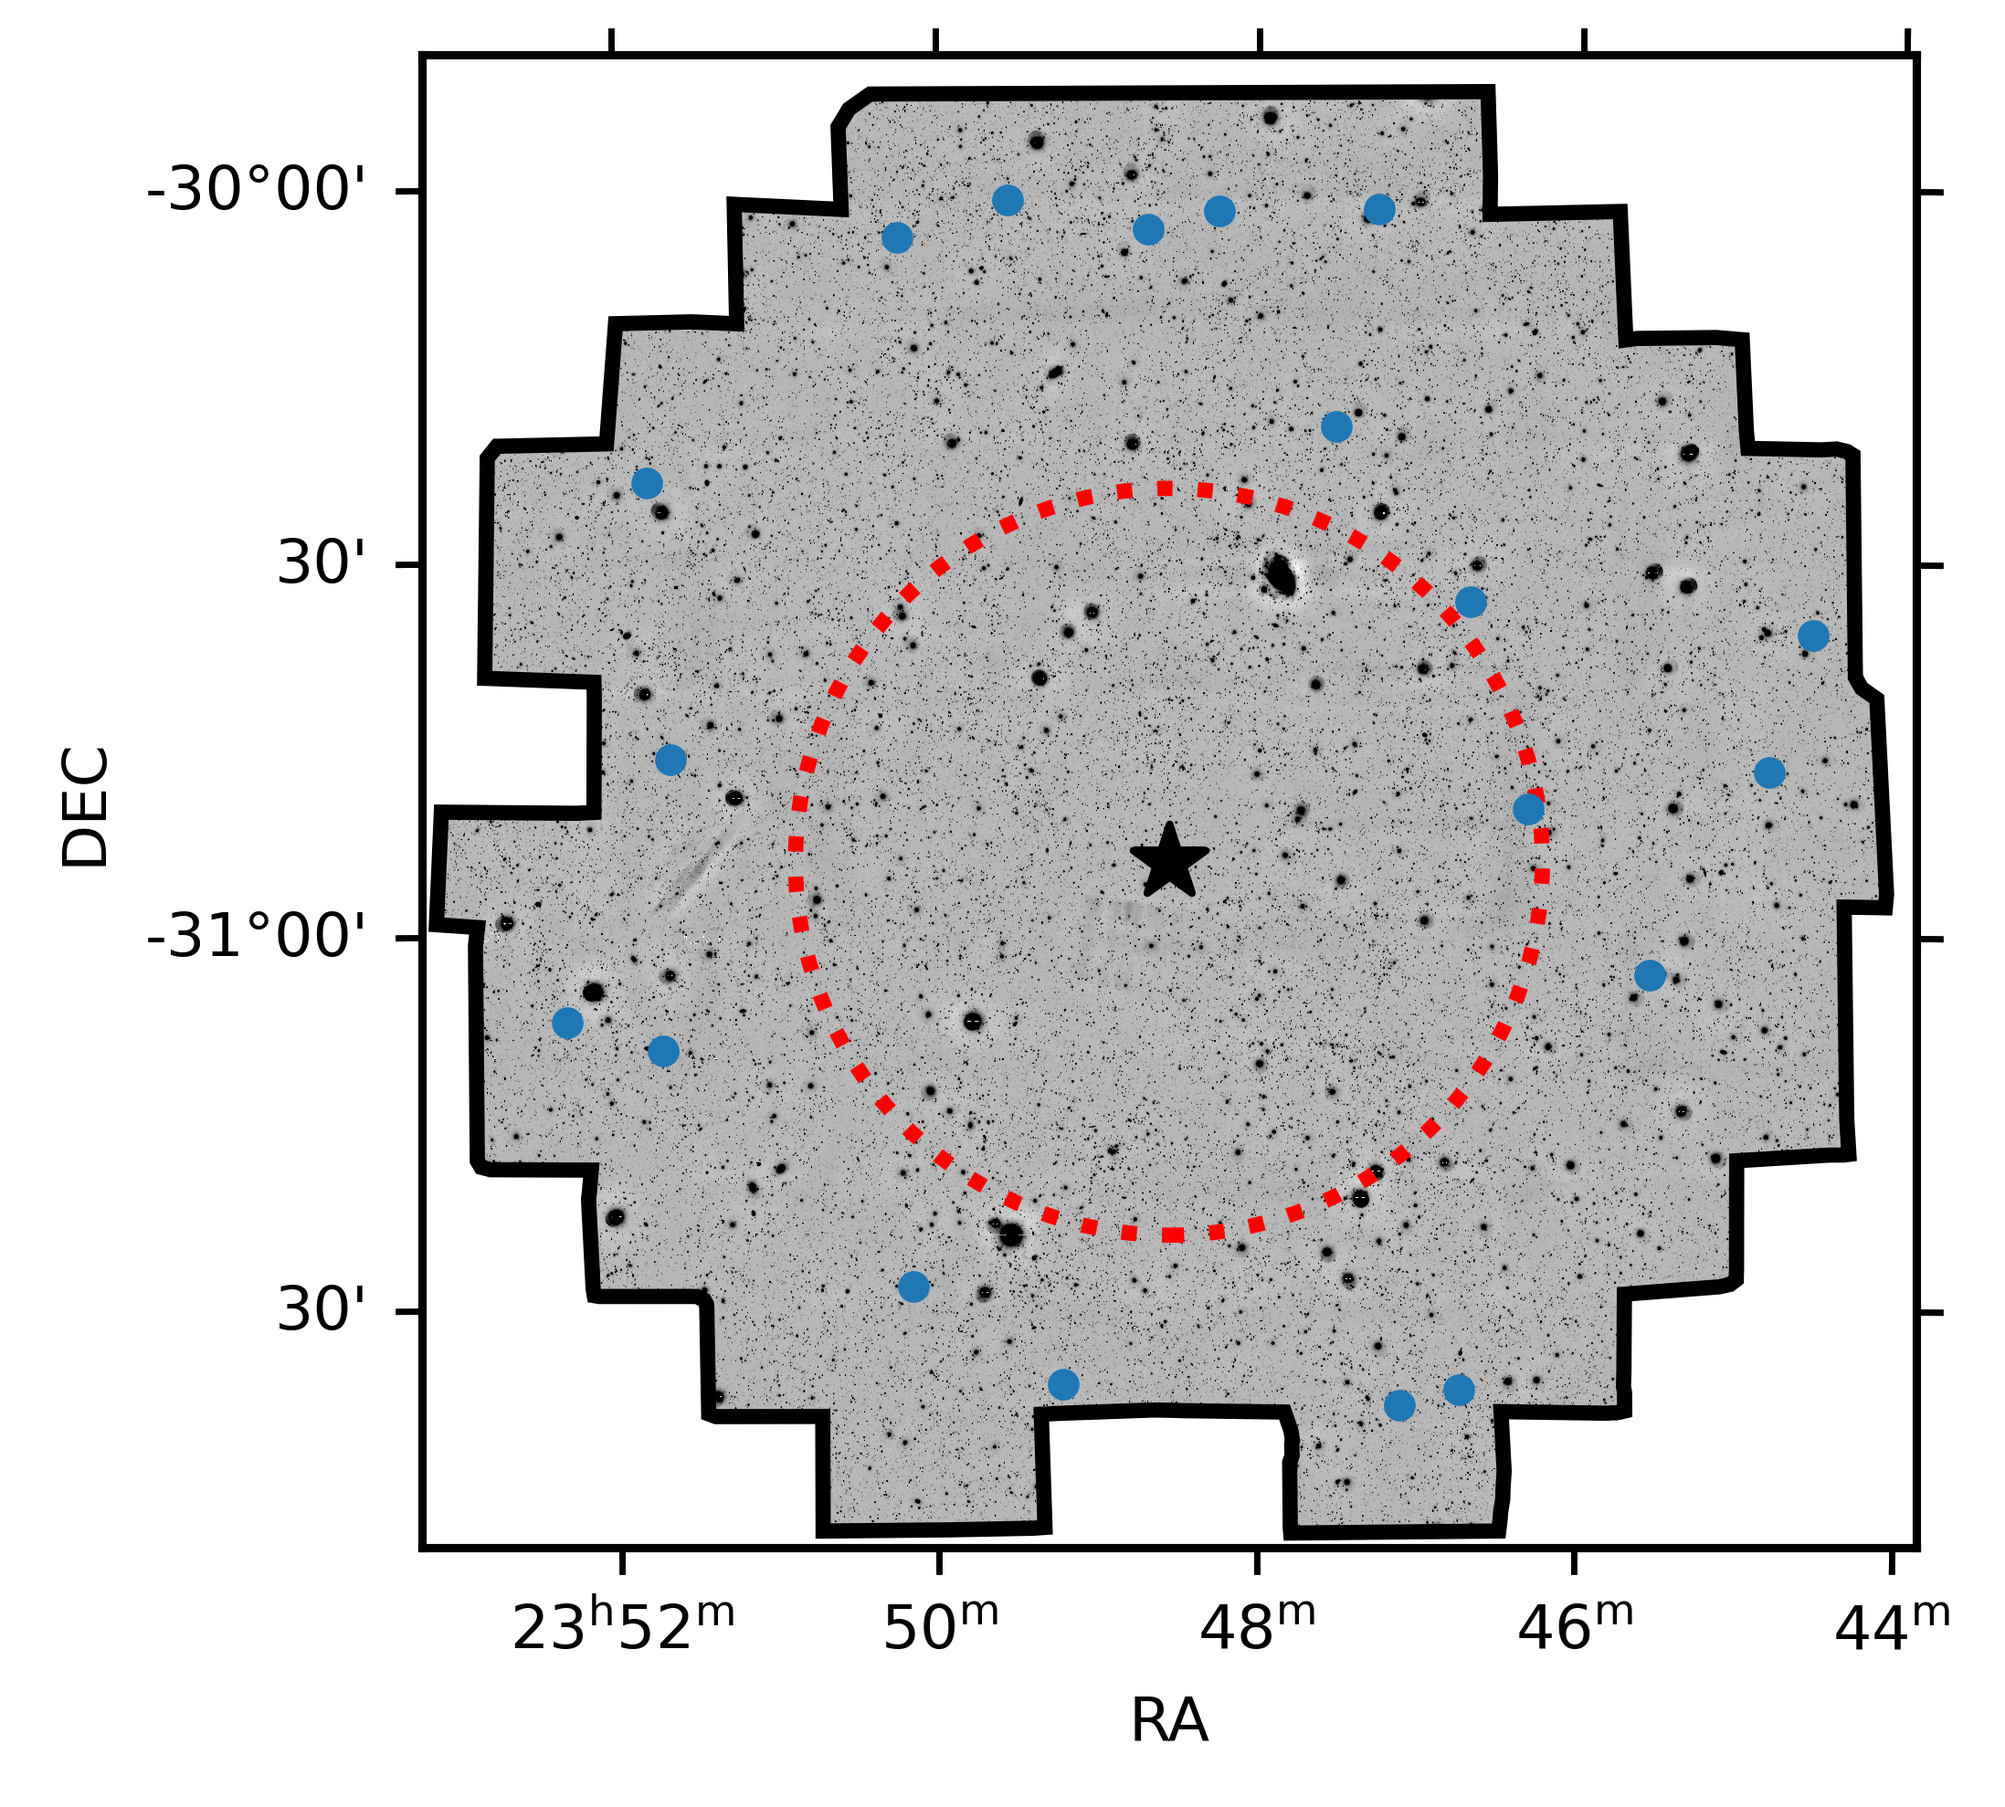
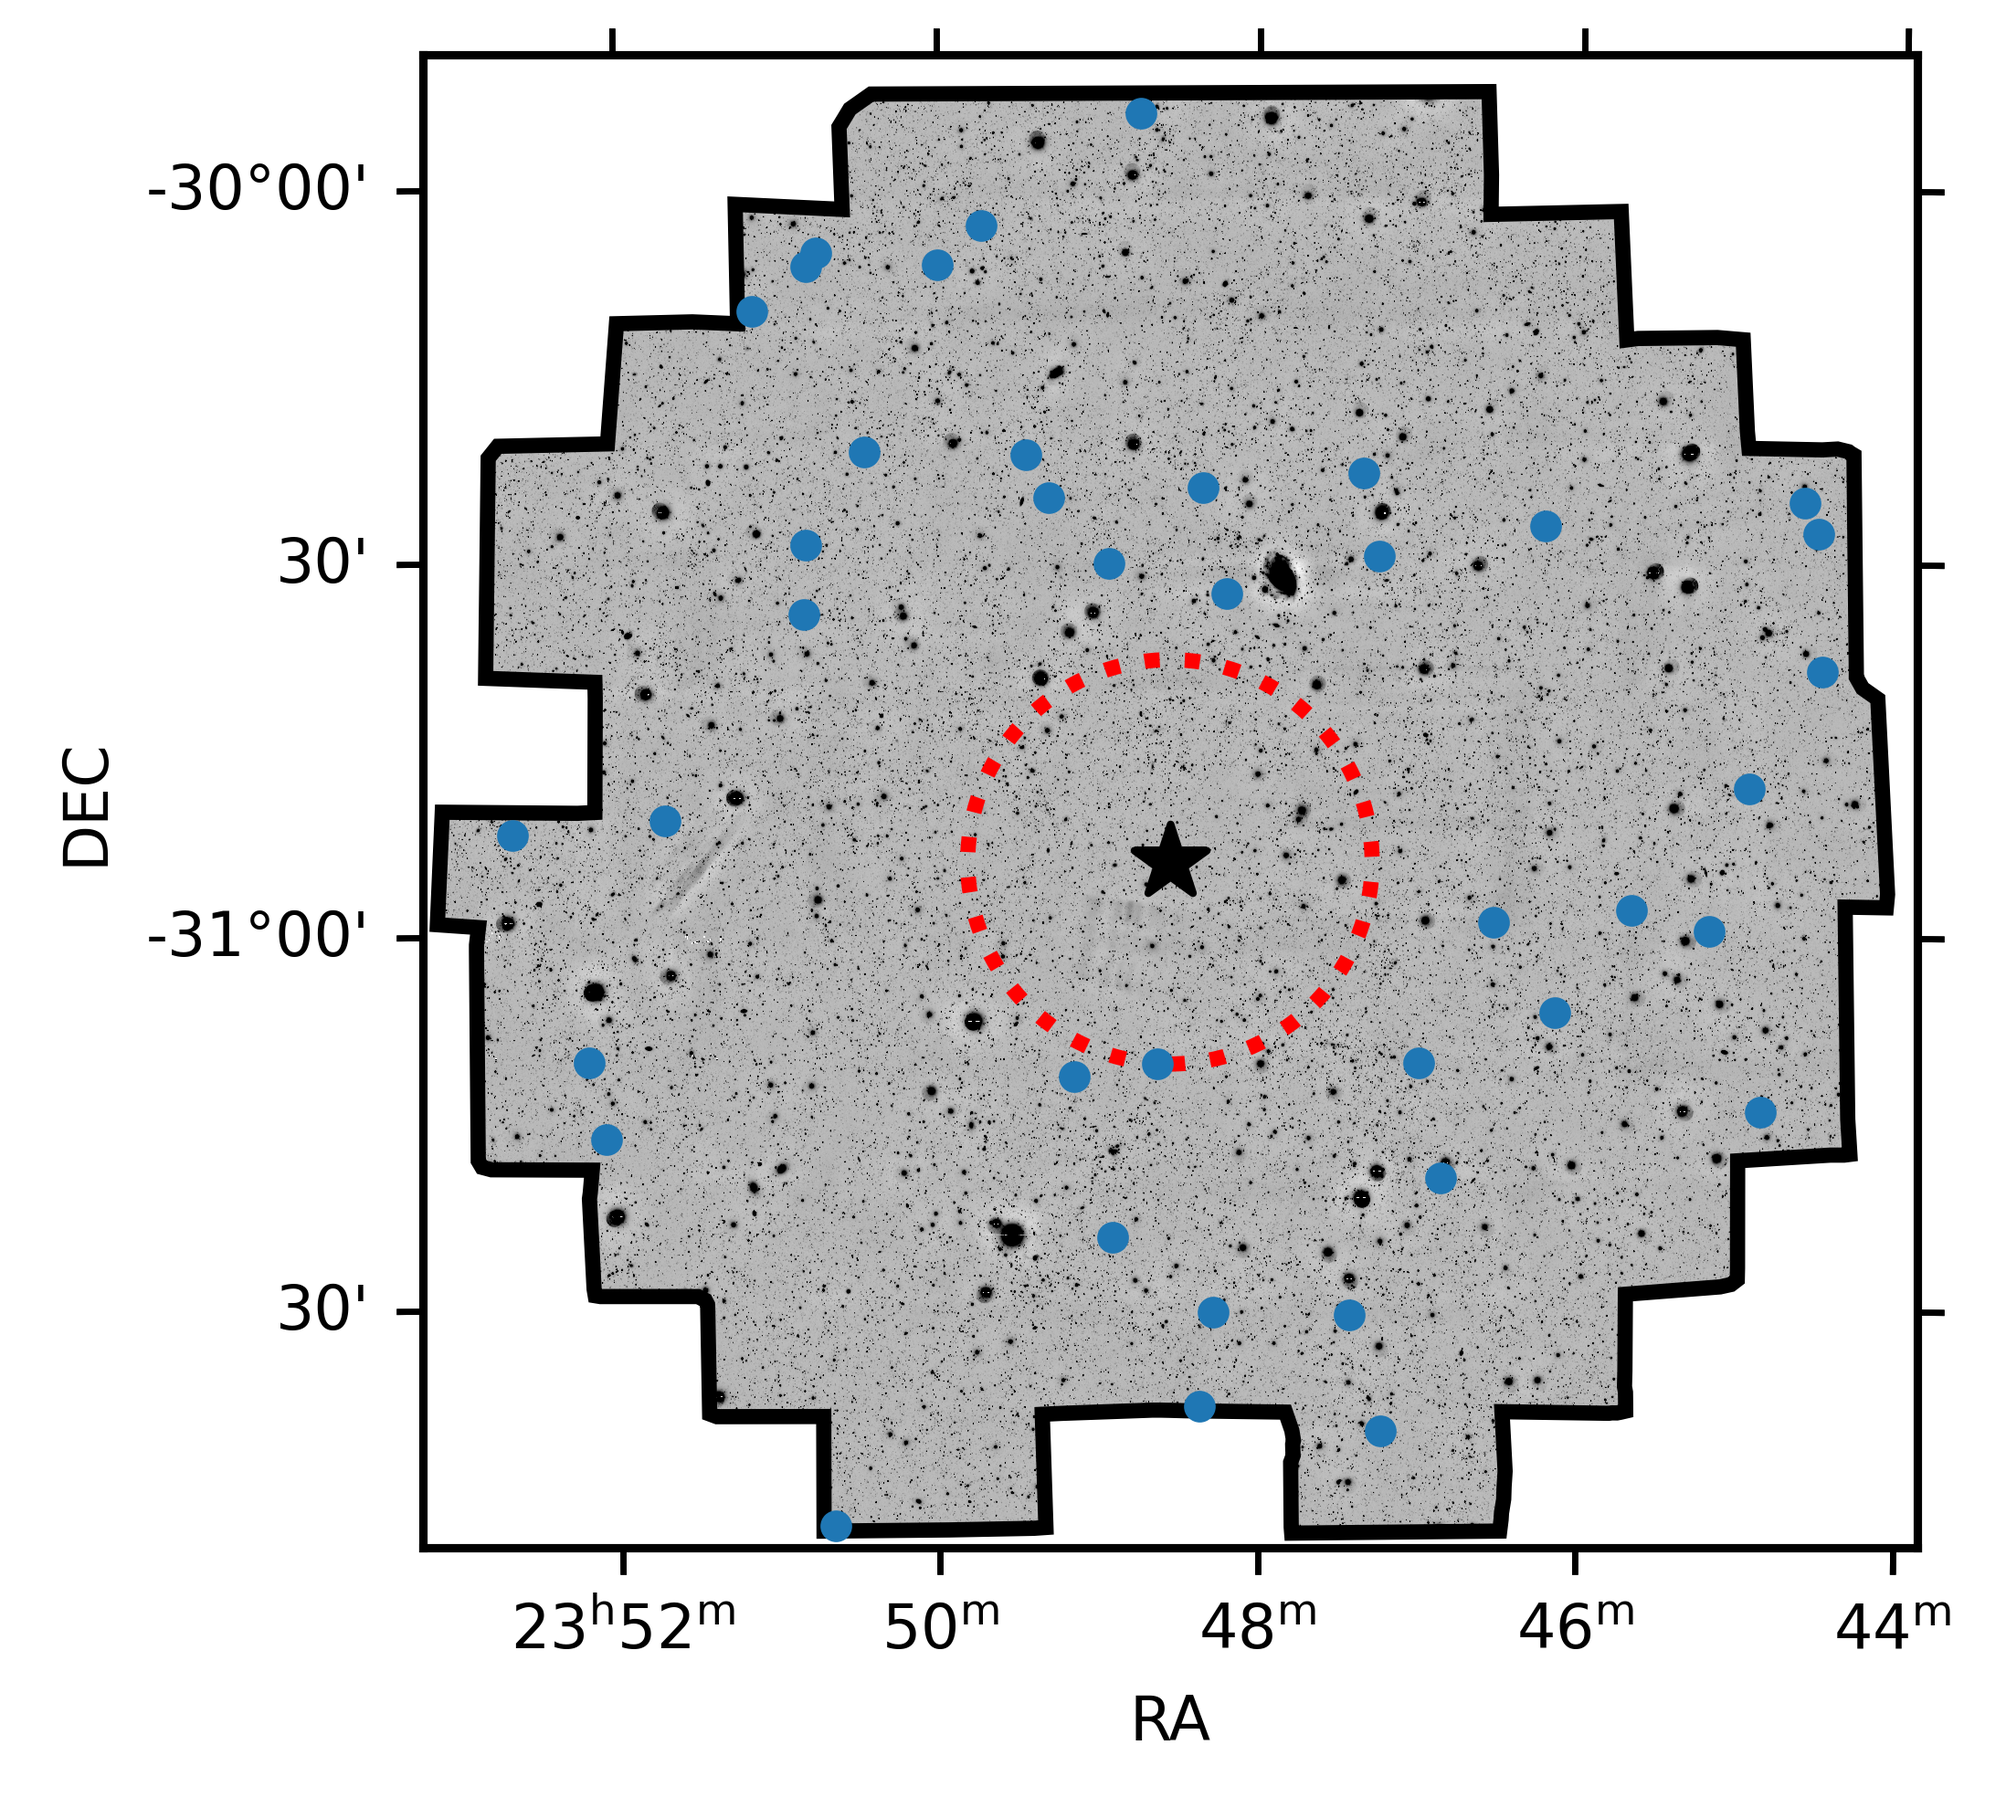
Added measured probability

diff --git a/plot_significance_central_hole.py b/plot_significance_central_hole.py
@@ -1,0 +1,130 @@
+"""
+Working out the empirical significance of the central hole according to eduardo.
+"""
+
+from rich.progress import track
+import numpy as np
+from scipy.stats import norm
+from astropy.io import fits
+from astropy.coordinates import SkyCoord
+from astropy.nddata import Cutout2D
+from astropy.wcs import WCS
+from astropy.cosmology import FlatLambdaCDM
+import astropy.units as u
+import pylab as plt
+from plotting import start_plot, end_plot
+
+
+def count_sources(
+        ra_sources: np.ndarray, dec_sources: np.ndarray, x_val: float, y_val: float, radius: float
+        ) -> int:
+    """
+    Counts the number of sources within the search radius at the given center.
+
+    ra_sources, dec_sources = arrays of lyman alpha candidates
+    center = searching around given center
+    raidus = search radius in degrees.
+    """
+
+    candidates = SkyCoord(ra = ra_sources * u.deg, dec = dec_sources * u.deg)
+    central_position = SkyCoord(ra = x_val* u.deg,  dec = y_val * u.deg)
+    diff = candidates.separation(central_position)
+    count = len(np.where(diff < radius*u.deg)[0])
+    return count
+
+
+def mask_central_region(ra_array: np.ndarray, dec_array: np.ndarray, radius: float):
+    """
+    Removes central apertures that are overlappting with the central area.
+    """
+    RA_QSO = (23 + (48/60) + (33.34/3600)) * (360/24)
+    DEC_QSO = (30 + (54/60) + (10.0/3600)) * -1
+    inner_region = 0.271 #deg
+    limit = inner_region + radius
+    c = SkyCoord(ra_array * u.deg, dec_array * u.deg)
+    quasar = SkyCoord(RA_QSO * u.deg, DEC_QSO * u.deg)
+    distances = c.separation(quasar)
+    cut = np.where(distances > limit * u.deg)
+    return cut
+
+def is_valid(mask, center_x: int, center_y: int, radius: int):
+    """
+    decides whether or not a aperture position is valid based on if the aperture 
+    exceeds the limits of the mask.
+
+    center_x, center_y, and radius should be in pixel units.
+    """
+    cutout = Cutout2D(mask[0].data, (center_x, center_y), radius)
+    if np.min(cutout.data) == 0:
+        result = False
+    elif np.max(cutout.data) ==1:
+        result = True
+    else:
+        print('wtf')
+    return result
+
+
+
+
+if __name__ == '__main__':
+    infile = 'candidates_e.txt'
+    mask_infile = fits.open('DECAM_MASK.fits')
+    shape = mask_infile[0].data.shape
+    wcs = WCS(mask_infile[0].header)
+    pix_scale = mask_infile[0].header['CD2_2']
+    ra, dec = np.loadtxt(infile, unpack=True)
+
+    radii = np.arange(0.27, 0.4, 0.02)
+    for radius in radii:
+        print(radius)
+        #radius = 0.27#159338
+        
+        radius_pixel = radius / pix_scale
+
+        TRIALS = 10000
+
+        center_xs, center_ys = np.random.randint(0, shape[1], TRIALS), np.random.randint(0, shape[0], TRIALS)
+        center_ras, center_decs = wcs.pixel_to_world_values(center_xs, center_ys)
+
+        mask = mask_central_region(center_ras, center_decs, radius)
+        #center_xs, center_ys, center_ras, center_decs = center_xs[mask], center_ys[mask], center_ras[mask], center_decs[mask]
+        valid = np.array([is_valid(mask_infile, x, y, radius_pixel) for x, y in track(zip(center_xs, center_ys))])
+        mask = np.where(valid == True)
+        numbers = np.array([count_sources(ra, dec, x, y, radius) for x, y in zip(center_ras, center_decs)])
+
+        final_numbers = numbers[valid]
+
+        RA_QSO = (23 + (48/60) + (33.34/3600)) * (360/24)
+        DEC_QSO = (30 + (54/60) + (10.0/3600)) * -1
+        counts_around_qso = count_sources(ra, dec, RA_QSO, DEC_QSO, radius)
+
+        REDSHIFT_QSO = 6.9
+        COSMO = FlatLambdaCDM(H0=70, Om0=0.3)
+        ARCSEC_PER_KPC = COSMO.arcsec_per_kpc_proper(REDSHIFT_QSO)
+        DEG_PER_MPC = ARCSEC_PER_KPC.to(u.deg / u.Mpc)
+
+        radius_mpc = radius *u.deg / DEG_PER_MPC
+
+        fig = start_plot('# Galaxies within radius', 'Probability')
+        ax = fig.add_subplot(111)
+
+        bins = np.arange(0, 11, 1)
+        counts, _ = np.histogram(final_numbers, bins = bins)
+        x_plotting  = [(bins[i] + bins[i+1])/2 for i in range(len(bins) -1)]
+
+        percents = np.round(counts/len(final_numbers), 2)
+        sigmas =  [norm.ppf(prob) for prob in percents]
+        # adding second y-axis
+        def prob_to_sigma(prob):
+            return norm.ppf(prob)
+        
+        def sigma_to_prob(sigma):
+            return norm.cdf(sigma)
+
+        #plt.hist(final_numbers, histtype='step', label=f'radius = {np.round(radius,2)}', bins = np.arange(0, 11, 1))
+        ax.step(x_plotting, percents, label = np.round(radius_mpc, 2))
+        ax1 = ax.secondary_yaxis('right', functions=(prob_to_sigma, sigma_to_prob))
+        ax.axvline(counts_around_qso, ls=':', color='k')
+        ax.legend()
+        end_plot(f'center_sig_{radius}.png')
+    

diff --git a/plot_onsky_distribution.py b/plot_onsky_distribution.py
@@ -57,7 +57,7 @@ if __name__ == '__main__':
     #On sky distribution plot.
     #region_1 = set_region(ra_qso_plot, dec_qso_plot, 35)
     #region_10 = set_region(ra_qso_plot, dec_qso_plot, 55.2)
-    region_20 = set_region(ra_qso_plot, dec_qso_plot, 75)
+    region_20 = set_region(ra_qso_plot, dec_qso_plot, 40.6)
 
     fig = plt.figure(figsize = (3.54, 3.54), dpi = 600)
     ax = fig.add_subplot(projection = decam_wcs)

diff --git a/identify_candidates.py b/identify_candidates.py
@@ -347,7 +347,7 @@ class EduaradoSelection(ClassicSNR):
     def select_i_band(self):
         """Implementing an I-band cut."""
         i_mag, _ = self.i_data
-        cut = np.where(i_mag >= self.i_lim)[0]
+        cut = np.where(i_mag > self.i_lim)[0]
         return cut
 
     def apply_selection_criteria(self) -> np.ndarray:
